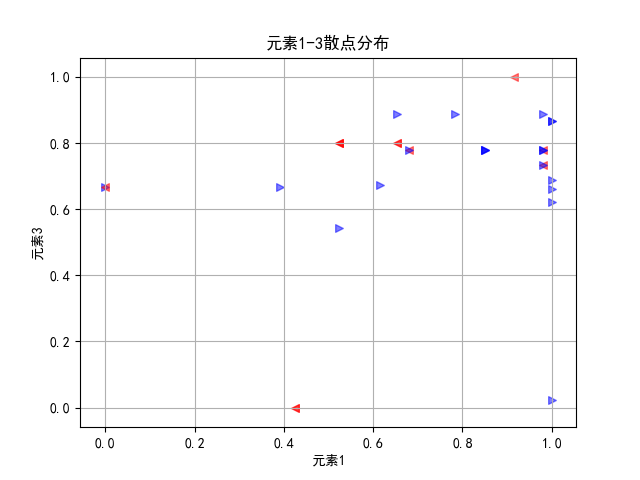
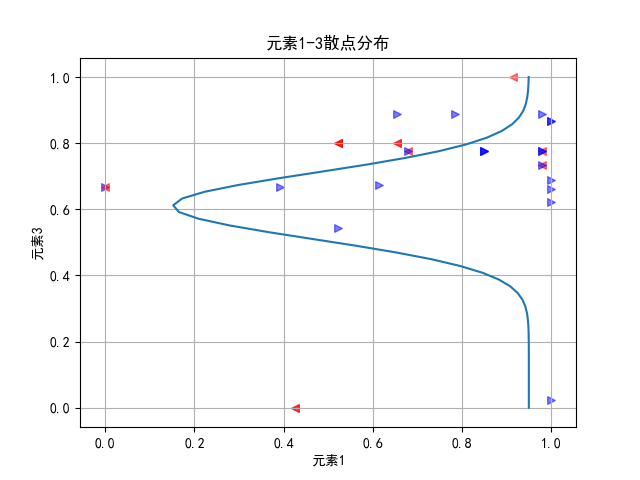
改回单个svm分类器训练，达到9个测试样本全部正确的效果，可是，，，这样就跟别人一样了哇，holy shit

diff --git a/run.py b/run.py
@@ -63,7 +63,7 @@ def get_weight(singal_svm,x_test,y_test,_D):
 
 def single_svm_train(train_x,train_y,test_x,test_y):
 
-    clf = svm.SVC(C=0.5, kernel='rbf', gamma='auto', decision_function_shape='ovr')
+    clf = svm.SVC(C=4.3, kernel='rbf', gamma='auto', decision_function_shape='ovo')
     max = np.zeros((1,np.size(train_x[0,:])))
     min = np.zeros((1,np.size(train_x[0,:])))
     train_x_normal = np.mat(np.zeros(np.shape(train_x)))
@@ -75,6 +75,8 @@ def single_svm_train(train_x,train_y,test_x,test_y):
         else:
             train_x_normal[:, i] = (train_x[:, i] - min[0, i]) / (max[0, i] - min[0, i])
     clf.fit(train_x_normal, train_y)
+    max = np.zeros((1, np.size(test_x[0, :])))
+    min = np.zeros((1, np.size(test_x[0, :])))
     test_x_normal = np.mat(np.zeros(np.shape(test_x)))
     for i in range(np.size(test_x[0, :])):
         max[0, i] = test_x[:, i].max()
@@ -82,28 +84,28 @@ def single_svm_train(train_x,train_y,test_x,test_y):
         if max[0, i] == min[0, i]:
             test_x_normal[:, i] = np.mat(np.ones(np.shape(test_x_normal[:, i])))
         else:
-            test_x_normal[:, i] = (x_test[:, i] - min[0, i]) / (max[0, i] - min[0, i])
+            test_x_normal[:, i] = (test_x[:, i] - min[0, i]) / (max[0, i] - min[0, i])
     targeted_rate = clf.score(test_x_normal, test_y)
-    return targeted_rate,clf
+    return targeted_rate,clf,clf.predict(test_x_normal)
 def normpdf(x, mu, sigma):
     u = (x-mu)/abs(sigma)
     y = (1/(np.sqrt(2*np.pi)*abs(sigma)))*np.exp(-u*u/2)
     return y
 # data = xlrd.open_workbook('data.xlsx')
-# table = data.sheets()[6]
-# with open('data7.json', 'w') as json_file:
+# table = data.sheets()[0]
+# with open('data1.json', 'w') as json_file:
 #     json_file.write(json.dumps(table._cell_values))
 # train_data = table._cell_values
 #
 # data = xlrd.open_workbook('data.xlsx')
-# table = data.sheets()[7]
-# with open('data8.json', 'w') as json_file:
+# table = data.sheets()[1]
+# with open('data2.json', 'w') as json_file:
 #     json_file.write(json.dumps(table._cell_values))
 # test_data = table._cell_values
 # exit()
 train_name = 'data1.json'
 test_name = 'data2.json'
-train_size = 0.6
+train_size = 0.8
 logger = logging.getLogger("recording")
 logger.setLevel(logging.DEBUG)
 # 建立一个filehandler来把日志记录在文件里，级别为debug以上
@@ -130,56 +132,79 @@ data_cols = len(train_data[0])
 all_x_data = np.mat(train_data)[:,0:0+data_cols-1]
 all_y_data = np.mat(train_data)[:,-1]
 
-print('------------------可视化数据------------------------')
-plt.rcParams['font.sans-serif']=['SimHei'] #用来正常显示中文标签
-plt.rcParams['axes.unicode_minus']=False #用来正常显示负号
-max = np.zeros((1, np.size(all_x_data[0, :])))
-min = np.zeros((1, np.size(all_x_data[0, :])))
-all_x_normal = np.mat(np.zeros(np.shape(all_x_data)))
-for j in range(np.size(all_x_data[0, :])):
-    max[0, j] = all_x_data[:, j].max()
-    min[0, j] = all_x_data[:, j].min()
-    if max[0, j] == min[0, j]:
-        all_x_normal[:, j] = np.mat(np.ones(np.shape(all_x_normal[:, j])))
-    else:
-        all_x_normal[:, j] = (all_x_data[:, j] - min[0, j]) / (max[0, j] - min[0, j])
-x_col_num = [i for i in range(data_cols-1)]
-x_2_col_comb = list(combinations(x_col_num, 2))
-x_col_comb = list(combinations(x_col_num, 2))
-for j in range(len(x_col_comb)):
-    fig = plt.figure(0)
-    # ax = fig
-    # ax = fig.add_subplot(111,projection='2d')
-    ax = fig.add_subplot(111)
-    x_col_num = x_col_comb[j][0]
-    y_col_num = x_col_comb[j][1]
-    # z_col_num = x_col_comb[j][2]
-    norm_x = np.linspace(0, 1, 50)
-    # print x.shape
-    norm_y = stats.norm.pdf(norm_x, 0.5,0.2)
-    # 绘制高斯分布
-    plt.plot(norm_y, norm_x)
-    for i in range(data_rows):
-        if all_y_data[i,0] == -1:
-            ax.scatter(np.array(all_x_normal[i, x_col_num]), np.array(all_x_normal[i, y_col_num]),s = 30,alpha=0.5,c = 'r',marker = '<')
-            # ax.scatter(np.array(all_x_normal[i, x_col_num]), np.array(all_x_normal[i, y_col_num]),np.array(all_x_normal[i, z_col_num]),s = 30,alpha=0.5,c = 'r',marker = '<')
-        else:
-            ax.scatter(np.array(all_x_normal[i, x_col_num]), np.array(all_x_normal[i, y_col_num]),s = 30,alpha=0.5,c = 'b',marker = '>')
-            # ax.scatter(np.array(all_x_normal[i, x_col_num]), np.array(all_x_normal[i, y_col_num]),np.array(all_x_normal[i, z_col_num]),s = 30,alpha=0.5,c = 'b',marker = '>')
-    # ax.set_title('元素'+str(x_col_num+1)+'-'+str(y_col_num+1)+'-'+str(z_col_num+1)+'散点分布')#显示图表标题
-    ax.set_title('元素'+str(x_col_num+1)+'-'+str(y_col_num+1)+'散点分布')#显示图表标题
-    ax.set_xlabel('元素'+str(x_col_num+1))#x轴名称
-    ax.set_ylabel('元素'+str(y_col_num+1))#y轴名称
-    # ax.set_zlabel('元素'+str(z_col_num+1))#z轴名称
-    ax.grid(True)#显示网格线
-    plt.show()
-    fig.savefig('元素'+str(x_col_num+1)+'-'+str(y_col_num+1)+'散点分布.png')
-    exit()
-    # fig.savefig('元素'+str(x_col_num+1)+'-'+str(y_col_num+1)+'-'+str(z_col_num+1)+'散点分布.png')
+
+print('------------------支持向量机start------------------------')
+
+with open(test_name) as json_file:
+    test_data = json.load(json_file)
 
 
-print('------------------可视化数据------------------------')
+data_rows = len(test_data)
+data_cols = len(test_data[0])
+test_x_data = np.mat(test_data)[:,0:0+data_cols-1]
+test_y_data = np.mat(test_data)[:,-1]
+
+
+print(single_svm_train(all_x_data,all_y_data,test_x_data,test_y_data))
+
 exit()
+print('------------------支持向量机end------------------------')
+
+# print('------------------可视化数据start------------------------')
+# plt.rcParams['font.sans-serif']=['SimHei'] #用来正常显示中文标签
+# plt.rcParams['axes.unicode_minus']=False #用来正常显示负号
+# max = np.zeros((1, np.size(all_x_data[0, :])))
+# min = np.zeros((1, np.size(all_x_data[0, :])))
+# all_x_normal = np.mat(np.zeros(np.shape(all_x_data)))
+# for j in range(np.size(all_x_data[0, :])):
+#     max[0, j] = all_x_data[:, j].max()
+#     min[0, j] = all_x_data[:, j].min()
+#     if max[0, j] == min[0, j]:
+#         all_x_normal[:, j] = np.mat(np.ones(np.shape(all_x_normal[:, j])))
+#     else:
+#         all_x_normal[:, j] = (all_x_data[:, j] - min[0, j]) / (max[0, j] - min[0, j])
+# x_col_num = [i for i in range(data_cols-1)]
+# x_2_col_comb = list(combinations(x_col_num, 2))
+# x_col_comb = list(combinations(x_col_num, 2))
+# for j in range(len(x_col_comb)):
+#     if j != 1:
+#         continue
+#     fig = plt.figure(0)
+#     # ax = fig
+#     # ax = fig.add_subplot(111,projection='2d')
+#     ax = fig.add_subplot(111)
+#     x_col_num = x_col_comb[j][0]
+#     y_col_num = x_col_comb[j][1]
+#     # z_col_num = x_col_comb[j][2]
+#     norm_x = np.linspace(0, 1, 50)
+#     # print x.shape
+#     # 1-2 norm_y = stats.norm.pdf(norm_x, 0.1,0.07)*0.15
+#     # 1-2 plt.plot(norm_y, norm_x)
+#     # 1-3 norm_y = stats.norm.pdf(norm_x, 0.61, 0.1) * -0.2 + 0.95
+#     # 1-3 plt.plot(norm_y, norm_x)
+#     norm_y = stats.norm.pdf(norm_x, 0.61,0.1)*-0.2+0.95
+#     plt.plot(norm_y, norm_x)
+#     for i in range(data_rows):
+#         if all_y_data[i,0] == -1:
+#             ax.scatter(np.array(all_x_normal[i, x_col_num]), np.array(all_x_normal[i, y_col_num]),s = 30,alpha=0.5,c = 'r',marker = '<')
+#             # ax.scatter(np.array(all_x_normal[i, x_col_num]), np.array(all_x_normal[i, y_col_num]),np.array(all_x_normal[i, z_col_num]),s = 30,alpha=0.5,c = 'r',marker = '<')
+#         else:
+#             ax.scatter(np.array(all_x_normal[i, x_col_num]), np.array(all_x_normal[i, y_col_num]),s = 30,alpha=0.5,c = 'b',marker = '>')
+#             # ax.scatter(np.array(all_x_normal[i, x_col_num]), np.array(all_x_normal[i, y_col_num]),np.array(all_x_normal[i, z_col_num]),s = 30,alpha=0.5,c = 'b',marker = '>')
+#     # ax.set_title('元素'+str(x_col_num+1)+'-'+str(y_col_num+1)+'-'+str(z_col_num+1)+'散点分布')#显示图表标题
+#     ax.set_title('元素'+str(x_col_num+1)+'-'+str(y_col_num+1)+'散点分布')#显示图表标题
+#     ax.set_xlabel('元素'+str(x_col_num+1))#x轴名称
+#     ax.set_ylabel('元素'+str(y_col_num+1))#y轴名称
+#     # ax.set_zlabel('元素'+str(z_col_num+1))#z轴名称
+#     ax.grid(True)#显示网格线
+#     plt.show()
+#     fig.savefig('元素'+str(x_col_num+1)+'-'+str(y_col_num+1)+'散点分布.png')
+#
+#     # fig.savefig('元素'+str(x_col_num+1)+'-'+str(y_col_num+1)+'-'+str(z_col_num+1)+'散点分布.png')
+#
+#
+# print('------------------可视化数据end------------------------')
+# exit()
 
 
 random_seed = int(datetime.datetime.now().strftime("%H%M%S"))

diff --git a/README.md b/README.md
@@ -4,3 +4,9 @@
 
 
 - 此时算法进行基于svm的单因素弱分类，效果极差，0.5准确率，在二分类情况下跟猜的没区别，辣鸡
+
+2018/2/5 21:24:45 
+
+
+
+- 此时算法回到最原始的svm单个分类器，通过将数据参数中的孔隙水压力一项去掉，训练30个样本，测试9个样本，在线性核函数情况下，惩罚因子C>=1.6时9个样本全部正确；在sigmoid核函数情况下，惩罚因子C>=10.6时9个样本全部正确；在rbf核函数情况下，惩罚因子C>=4.3时9个样本全部正确；
